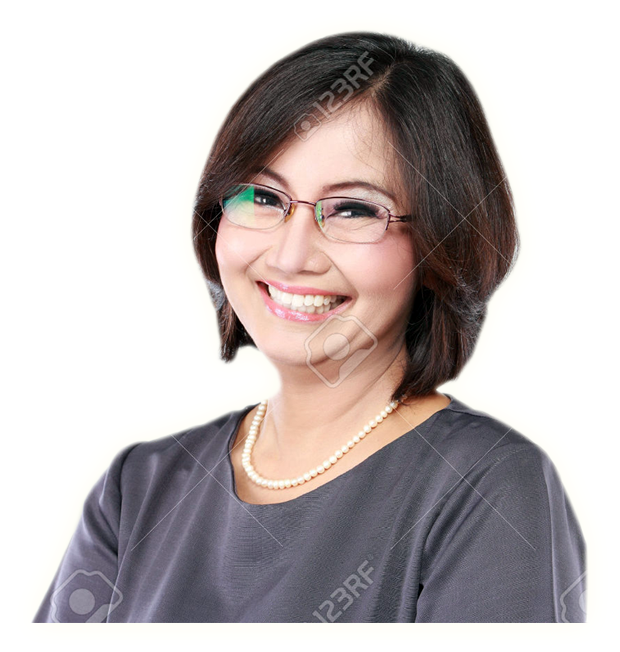
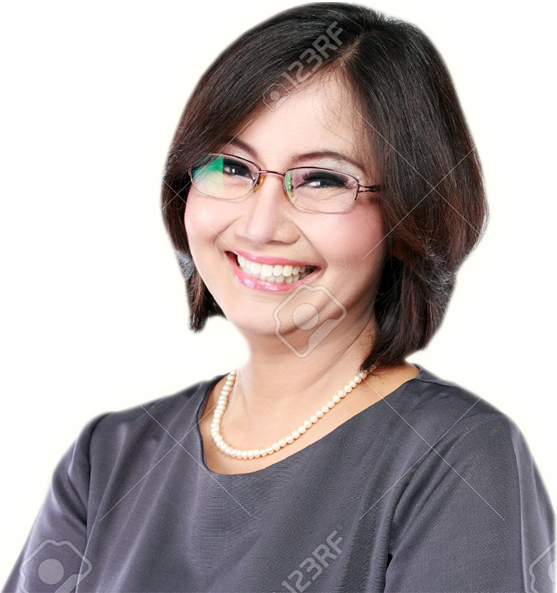
css media quaries

diff --git a/index.html b/index.html
@@ -12,61 +12,63 @@
 
 <body>
   <header class="header">
-    <div class="header__nav-cnt">
-      <img class="header__logo" src="images/logo.png" alt="page logo">
-      <nav class="header__nav">
-        <div id="header-menu" class="header__navigation">
-          <ul class="header__list">
-            <li class="header__item">
-              <a href="" class="header__link">HOME</a>
-            </li>
-            <li class="header__item">
-              <a href="" class="header__link">ABOUT</a>
-            </li>
-            <li class="header__item">
-              <a href="" class="header__link">NEW HERE?</a>
-            </li>
-            <li class="header__item">
-              <a href="" class="header__link">BLOG</a>
-            </li>
-            <li class="header__item">
-              <a href="" class="header__link">SERVICES</a>
-            </li>
-            <li class="header__item">
-              <a href="" class="header__link">PORTFOLIO</a>
-            </li>
-            <li class="header__item">
-              <a href="" class="header__link">WORK WITH US</a>
-            </li>
-          </ul>
-        </div>
-        <button id="nav-btn" class="hmb-btn">
-          <span class="hmb-btn__outer">
-            <span class="hmb-btn__inner"></span>
-          </span>
-        </button>
-      </nav>
-    </div>
-
-    <div id="header-text" class="header__welcome-txt">
-      <div class="header__text">
-        <h1 class="header__title">
-          HOW CAN WE BUILD
-          <br>
-          <span class="header__subtitle">AN AMAZING SITE</span>
-        </h1>
-        <p class="header__paragraph">Lorem Ipsum is simply dummy text of the printing and typesetting industry Lorem
-          Ipsum has been the.</p>
-        <a class="header__btn" href="http://" target="_blank" rel="noopener noreferrer">View Portfolio</a>
+    <div class="container">
+      <div class="header__nav-cnt">
+        <img class="header__logo" src="images/logo.png" alt="page logo">
+        <nav class="header__nav">
+          <div id="header-menu" class="header__navigation">
+            <ul class="header__list">
+              <li class="header__item">
+                <a href="" class="header__link">HOME</a>
+              </li>
+              <li class="header__item">
+                <a href="" class="header__link">ABOUT</a>
+              </li>
+              <li class="header__item">
+                <a href="" class="header__link">NEW HERE?</a>
+              </li>
+              <li class="header__item">
+                <a href="" class="header__link">BLOG</a>
+              </li>
+              <li class="header__item">
+                <a href="" class="header__link">SERVICES</a>
+              </li>
+              <li class="header__item">
+                <a href="" class="header__link">PORTFOLIO</a>
+              </li>
+              <li class="header__item">
+                <a href="" class="header__link">WORK WITH US</a>
+              </li>
+            </ul>
+          </div>
+          <button id="nav-btn" class="hmb-btn">
+            <span class="hmb-btn__outer">
+              <span class="hmb-btn__inner"></span>
+            </span>
+          </button>
+        </nav>
       </div>
-      <div class="header__image-cnt">
-        <img class="header__image" src="images/Layer2.png" alt="smiling woman">
+
+      <div id="header-text" class="header__welcome-txt">
+        <div class="header__text">
+          <h1 class="header__title">
+            HOW CAN WE BUILD
+            <br>
+            <span class="header__subtitle">AN AMAZING SITE</span>
+          </h1>
+          <p class="header__paragraph">Lorem Ipsum is simply dummy text of the printing and typesetting industry Lorem
+            Ipsum has been the.</p>
+          <a class="header__btn" href="http://" target="_blank" rel="noopener noreferrer">View Portfolio</a>
+        </div>
+        <div class="header__image-cnt">
+          <img class="header__image" src="images/welcome.png" alt="smiling woman">
+        </div>
       </div>
     </div>
   </header>
 
   <section class="section section--white-bg">
-    <div class="grid">
+    <div class="grid container">
       <div class="section__welcome-text">
         <h2 class="section__title">About BGStudio</h2>
         <p class="section__title-p">
@@ -82,8 +84,8 @@
           Aldus PageMaker including versions of Lorem Ipsum.
         </p>
       </div>
-      <div class="section__image-woman">
-        <img src="images/Layer4.png" alt="">
+      <div class="section__image-woman-cnt">
+        <img src="images/Layer4.png" alt="woman" class="section__image-woman-cnt">
       </div>
 
       <div class="section__describe">
@@ -130,7 +132,7 @@
   </section>
 
   <section class="section section--grey-bg">
-    <div class="grid">
+    <div class="grid container">
       <div class="section__welcome-text">
         <h2 class="section__title">What we do best</h2>
         <p class="section__title-p">Lorem Ipsum is simply dummy text of the printing and typesetting industry. Lorem
@@ -185,7 +187,7 @@
   </section>
 
   <section class="section">
-    <div class="grid">
+    <div class="grid container">
       <div class="section__welcome-text">
         <h2 class="section__title">What we do best</h2>
         <p class="section__title-p">Lorem Ipsum is simply dummy text of the printing and typesetting industry. Lorem
@@ -268,36 +270,41 @@
   </section>
 
   <section class="section-work">
-    <p class="section-work__text">Lorem Ipsum is simply dummy text of the printing and typesetting industry. Lorem Ipsum
-      has been the industry's
-      standard
-      dummy text ever since the 1500s, when an unknown printer took a galley of type and scrambled it to make a type
-      specimen
-      book. It has survived not only five centuries.</p>
-    <a class="section-work__link" href="">Work With Us!</a>
+    <div class="container">
+      <p class="section-work__text">Lorem Ipsum is simply dummy text of the printing and typesetting industry. Lorem
+        Ipsum
+        has been the industry's
+        standard
+        dummy text ever since the 1500s, when an unknown printer took a galley of type and scrambled it to make a type
+        specimen
+        book. It has survived not only five centuries.</p>
+      <a class="section-work__link" href="">Work With Us!</a>
+    </div>
   </section>
 
   <footer class="footer">
-    <ul class="footer__list">
-      <li class="footer__list-item"><a href="">Home</a></li>
-      <li class="footer__list-item"><a href="">About</a></li>
-      <li class="footer__list-item"><a href="">New Here?</a></li>
-      <li class="footer__list-item"><a href="">Blog</a></li>
-      <li class="footer__list-item"><a href="">Shop</a></li>
-      <li class="footer__list-item"><a href="">Services</a></li>
-      <li class="footer__list-item"><a href="">Wotk With Us</a></li>
-      <li class="footer__list-item"><a href="">Contact</a></li>
-    </ul>
-    <img src="images/logo2.png" alt="logo" class="footer__img">
-    <ul class="footer__socials-list">
-      <li class="footer__socials-list-item"><a class="footer__socials-list-link" href="facebook.com" target="_blank"><i
-            class="fab fa-facebook-f"></i></a></li>
-      <li class="footer__socials-list-item"><a class="footer__socials-list-link" target="_blank" href="twitter.com"><i
-            class="fab fa-twitter"></i></a>
-      </li>
-      <li class="footer__socials-list-item"><a class="footer__socials-list-link" target="_blank" href="linkedin.com"><i
-            class="fab fa-linkedin-in"></i></a></li>
-    </ul>
+    <div class="containter">
+      <ul class="footer__list">
+        <li class="footer__list-item"><a href="">Home</a></li>
+        <li class="footer__list-item"><a href="">About</a></li>
+        <li class="footer__list-item"><a href="">New Here?</a></li>
+        <li class="footer__list-item"><a href="">Blog</a></li>
+        <li class="footer__list-item"><a href="">Shop</a></li>
+        <li class="footer__list-item"><a href="">Services</a></li>
+        <li class="footer__list-item"><a href="">Wotk With Us</a></li>
+        <li class="footer__list-item"><a href="">Contact</a></li>
+      </ul>
+      <img src="images/logo2.png" alt="logo" class="footer__img">
+      <ul class="footer__socials-list">
+        <li class="footer__socials-list-item"><a class="footer__socials-list-link" href="facebook.com"
+            target="_blank"><i class="fab fa-facebook-f"></i></a></li>
+        <li class="footer__socials-list-item"><a class="footer__socials-list-link" target="_blank" href="twitter.com"><i
+              class="fab fa-twitter"></i></a>
+        </li>
+        <li class="footer__socials-list-item"><a class="footer__socials-list-link" target="_blank"
+            href="linkedin.com"><i class="fab fa-linkedin-in"></i></a></li>
+      </ul>
+    </div>
   </footer>
   <script src="js/script.js"></script>
 </body>

diff --git a/css/style.css b/css/style.css
@@ -9,7 +9,7 @@
 body {
   font-family: 'Roboto', 'Damion', sans-serif;
   overflow-x: hidden;
-  font-size: 15px;
+  font-size: 18px;
 }
 
 a {
@@ -227,7 +227,7 @@ img {
   grid-column: 1/9;
 }
 
-.section__image-woman {
+.section__image-woman-cnt {
   display: none;
 }
 
@@ -260,7 +260,7 @@ img {
 
 .section__describe {
   background-color: #f6f6f6;
-  padding: 1.25em;
+  padding: 2em;
   font-size: 0.75em;
   text-align: center;
 }
@@ -495,10 +495,6 @@ img {
 }
 
 @media screen and (min-width: 900px) {
-  body {
-    font-size: 18px;
-  }
-
   .section__image-woman {
     display: block;
     grid-column: 2/8;
@@ -517,8 +513,8 @@ img {
 }
 
 @media screen and (min-width: 1000px) {
-  body {
-    font-size: 20px;
+  .header {
+    padding-bottom: 0;
   }
 
   .header__nav {
@@ -561,6 +557,39 @@ img {
 
   .header__image-cnt {
     display: block;
-    grid-column: 4/9;
+    grid-column: 5/9;
+    height: auto;
+  }
+
+  .header__image,
+  .section__image-woman-cnt {
+    max-width: 100%;
+    height: auto;
+    display: block;
+    max-height: 600px;
+    width: 100%;
+  }
+
+  .section__image-woman-cnt {
+    display: block;
+    grid-column: 1/5;
+    min-height: 400px;
+  }
+
+  .section__describe {
+    grid-column: 5/9;
+    height: 80%;
+    align-self: center;
+  }
+
+  .section__link {
+    text-align: left;
+  }
+}
+
+@media screen and (min-width: 1200px) {
+  .container {
+    max-width: 1200px;
+    margin: 0 auto;
   }
 }
